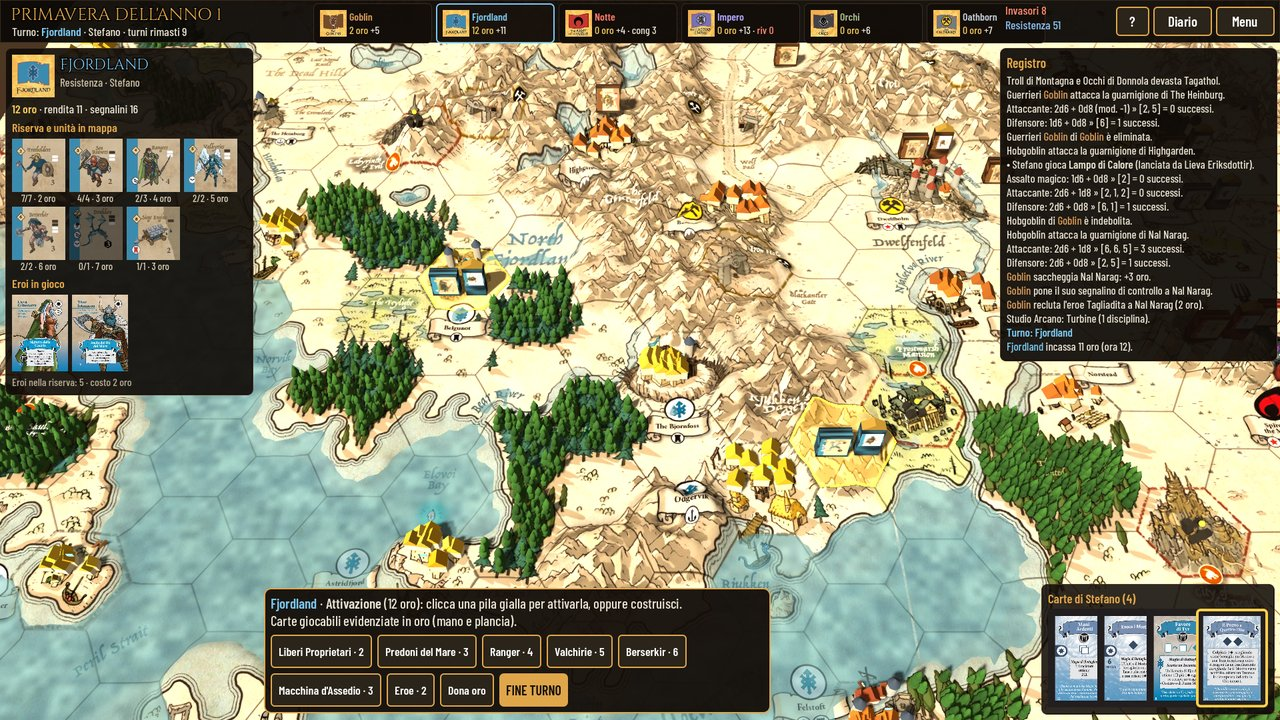
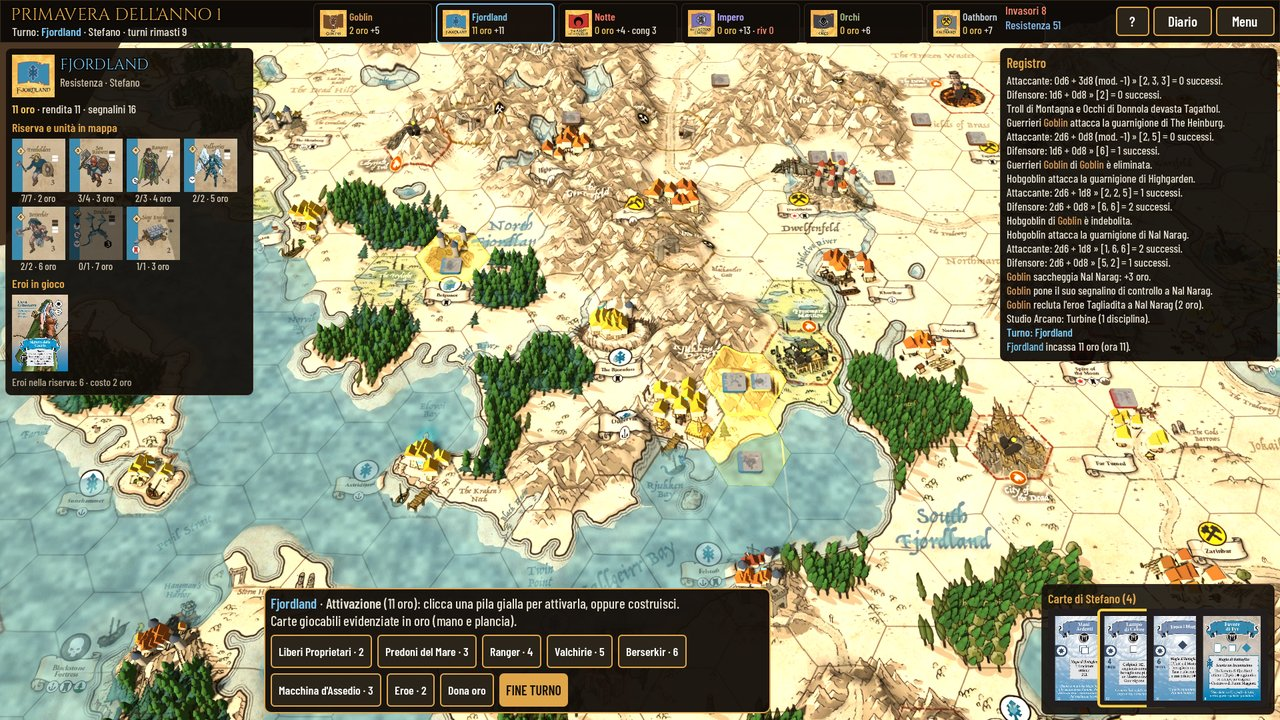
Pedine di cartoncino al posto dei blocchetti
Le unità e i mostri sono pedine quadrate di qualche millimetro, con gli angoli arrotondati, stese
sulla mappa e girate verso la telecamera: figura del segnalino sulla faccia, bordo del colore del
regno (dorato per gli eroi, scuro per i mostri). Indebolite: lato debole; esauste: più scure e un
po' ruotate. Su montagne e foreste le pedine stanno un po' più in alto per non sparire nel rilievo
e fra gli alberi.

Claude-Session: https://claude.ai/code/session_01TQrGboutUzAr78GbbfsHdp

diff --git a/README.md b/README.md
@@ -9,6 +9,7 @@ e dalle carte tradotte in italiano, e non vanno distribuite pubblicamente.
 ![Menu](docs/menu.jpg)
 ![Le quattro mappe in 3D](docs/mappa.jpg)
 ![Il turno di Fjordland](docs/turno.jpg)
+![Una pedina di cartoncino a Placidia](docs/pedina.jpg)
 ![Un combattimento](docs/combattimento.jpg)
 ![Fine della partita](docs/fine.jpg)
 
@@ -61,12 +62,14 @@ schede video modeste.
   viola), tane e miniere riconoscibili. Griglia esagonale presa dal `buildFile` del modulo e allineata
   alle immagini. Telecamera libera: trascina per spostarti, tasto destro per ruotare e inclinare, rotella
   per lo zoom, doppio clic per centrare un esagono; tastiera WASD/frecce, Q/E, R/F, C per ricentrare.
-- **Blocchetti di legno**: ogni unità è un blocchetto del colore del regno con la figura del segnalino
-  sulla faccia; un'armata indebolita è inclinata all'indietro e mostra il lato debole, le unità esauste
-  sono più scure e ruotate. Gli eroi sono blocchetti più alti e stretti con la corona, i mostri pedine
-  esagonali con l'anello del regno che li comanda. Le pile si leggono affiancate; in un assedio chi
-  difende sta dietro. Segnalini di controllo, Congreghe e rovine fumanti sono pedine 3D; la bandierina
-  di ogni insediamento prende il colore di chi lo controlla.
+- **Pedine di cartoncino**: ogni unità è una pedina quadrata di qualche millimetro, con gli angoli
+  arrotondati, stesa sulla mappa con la figura del segnalino sulla faccia e il bordo del colore del regno;
+  un'armata indebolita mostra il lato debole, le unità esauste sono più scure e un po' ruotate. Gli eroi
+  hanno pedine più piccole con il bordo dorato, i mostri pedine scure con l'anello del regno che li
+  comanda. Su montagne e foreste le pedine stanno un po' più in alto, per non sparire nel rilievo e fra
+  gli alberi. Le pile si leggono affiancate; in un assedio chi difende sta dietro. Segnalini di controllo,
+  Congreghe e rovine fumanti sono pedine 3D; la bandierina di ogni insediamento prende il colore di chi
+  lo controlla.
 - **Interfaccia** sopra la mappa: fascia sempre visibile con stagione, anno, turni rimasti, regno di
   turno, oro, rendita, rivolte e Congreghe di ogni regno e punti di ciascuno schieramento (passa il mouse
   per il dettaglio); **plancia del regno** con riserva, unità in mappa, eroi in gioco e mostri comandati
@@ -132,7 +135,7 @@ scripts/core/engine.gd       motore delle regole (nessuna dipendenza dalla grafi
 scripts/core/magic.gd        carte, poteri degli eroi e finestre di reazione
 scripts/core/ai.gd           IA (tre livelli)
 scripts/net/                 Firebase (REST) e partita online in lockstep
-scripts/ui/board3d.gd        mappa 3D: terreno, acqua, alberi, insediamenti, blocchetti, telecamera
+scripts/ui/board3d.gd        mappa 3D: terreno, acqua, alberi, insediamenti, pedine, telecamera
 scripts/ui/                  menu, vista di gioco, regole in breve
 assets/shaders/              terreno (griglia ed evidenziazioni calcolate sul rilievo) e acqua
 tests/sim.gd                 godot --headless -s res://tests/sim.gd -- 20 1 2 1 1   (partite IA: partite, campagna, livello Invasori, livello Resistenza, avanzate)
